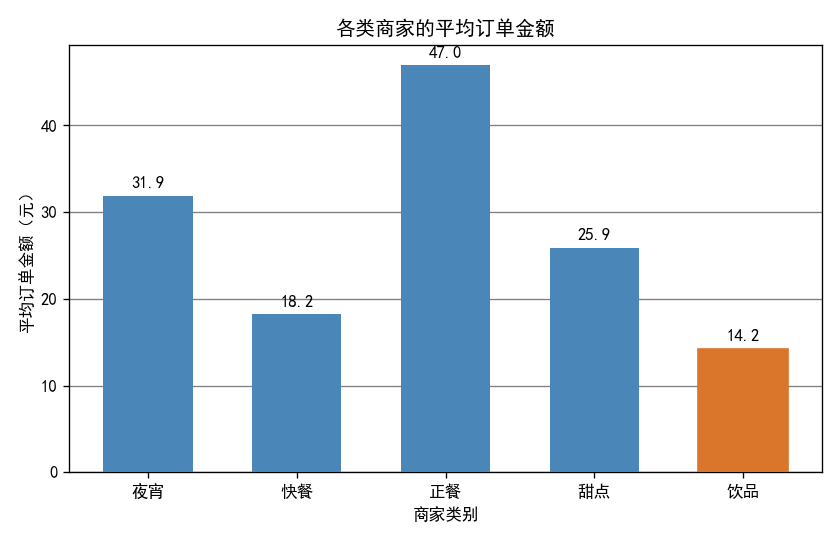
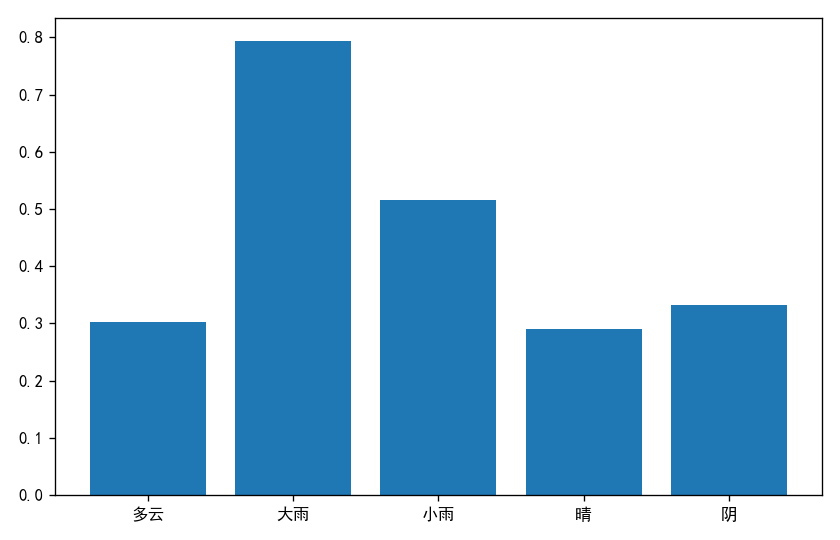
exp2 fig1 build 1.0

diff --git a/exp2/main.py b/exp2/main.py
@@ -21,29 +21,51 @@ def use_chinese_font():
             return name
     return None
 
+
+def print_answer(answers):
+    """answers 是一个字典，例如 {'Q1': 1234, 'Q2': 0.5678}"""
+    print("===ANSWER===")
+    for key in sorted(answers, key=lambda k: int(k[1:])):
+        value = answers[key]
+        if isinstance(value, float):
+            value = round(value, 4)
+        print(f"{key}={value}")
+    print("===END===")
+
+
 def save(fig, name):
     os.makedirs("../output/exp2", exist_ok=True)
     fig.tight_layout()
-    fig.savefig(f"../output/exp2/fig{name}.png",dpi=120)
+    fig.savefig(f"../output/exp2/{name}",dpi=120)
     plt.close(fig)
 
+
 def draw_fig1(df):
-    pass
+    rate = df.groupby("weather")["is_overtime"].mean()
+    fig, ax = plt.subplots(figsize=(7,4.5))
+    ax.bar(rate.index, rate)
+    save(fig, "fig1.png")
+
 
 def draw_fig2(df):
     pass
 
+
 def draw_fig3(df):
     pass
+
 
 def draw_fig4(df):
     pass
 
+
 def draw_fig5(df):
     pass
 
+
 def answers(df):
     pass
+
 
 def main():
     use_chinese_font()
@@ -53,6 +75,8 @@ def main():
     draw_fig3(orders)
     draw_fig4(orders)
     draw_fig5(orders)
+
+    #print_answer(answers(orders))
 
 if __name__ == "__main__":
     main()
